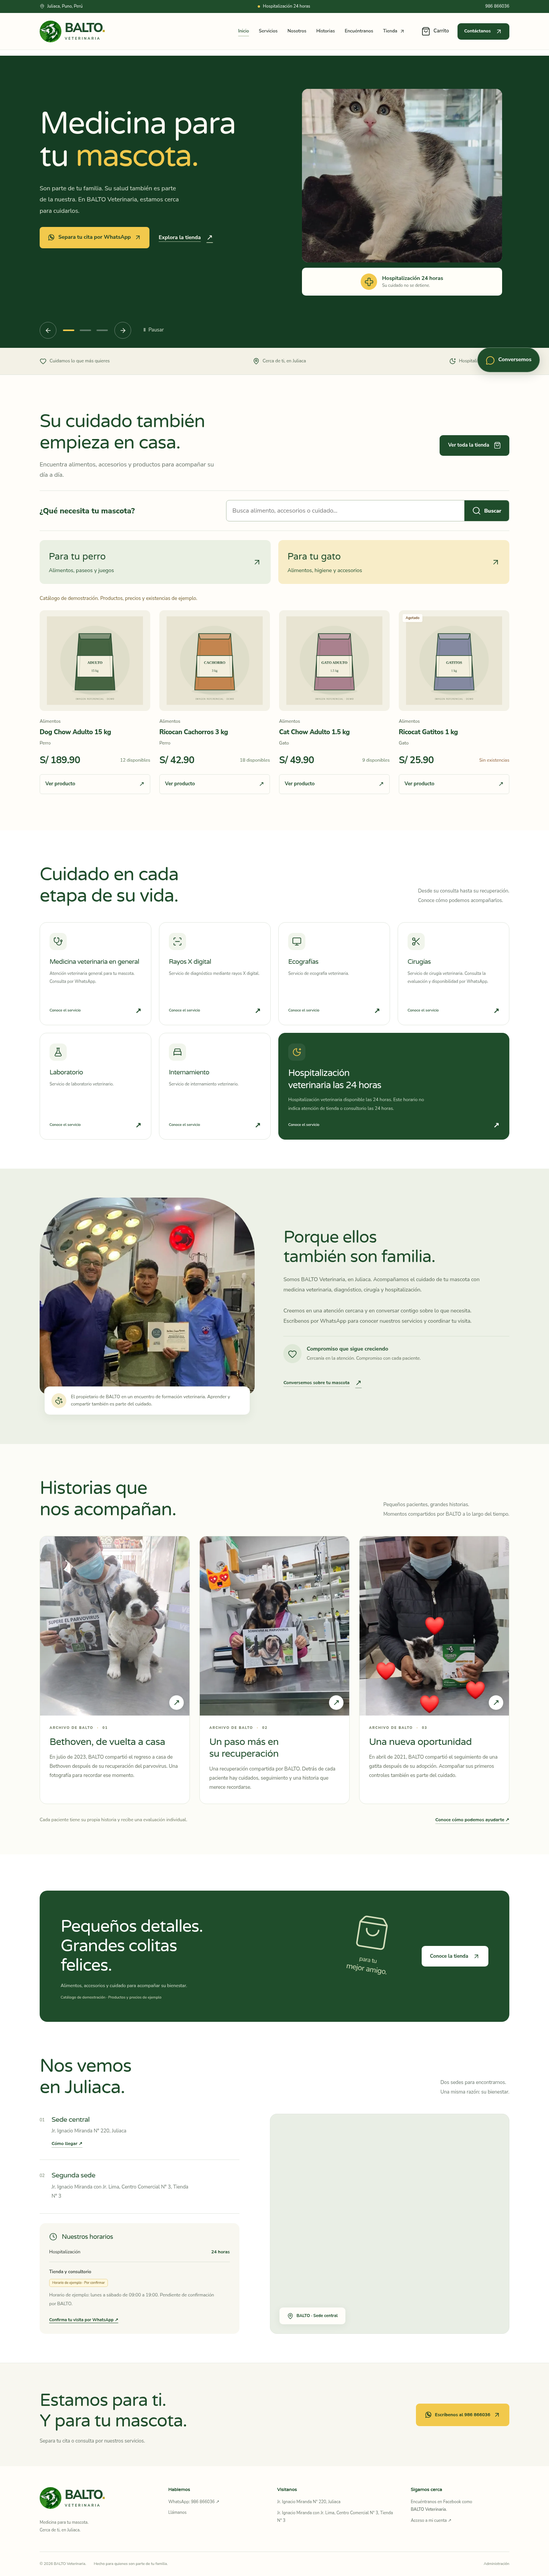
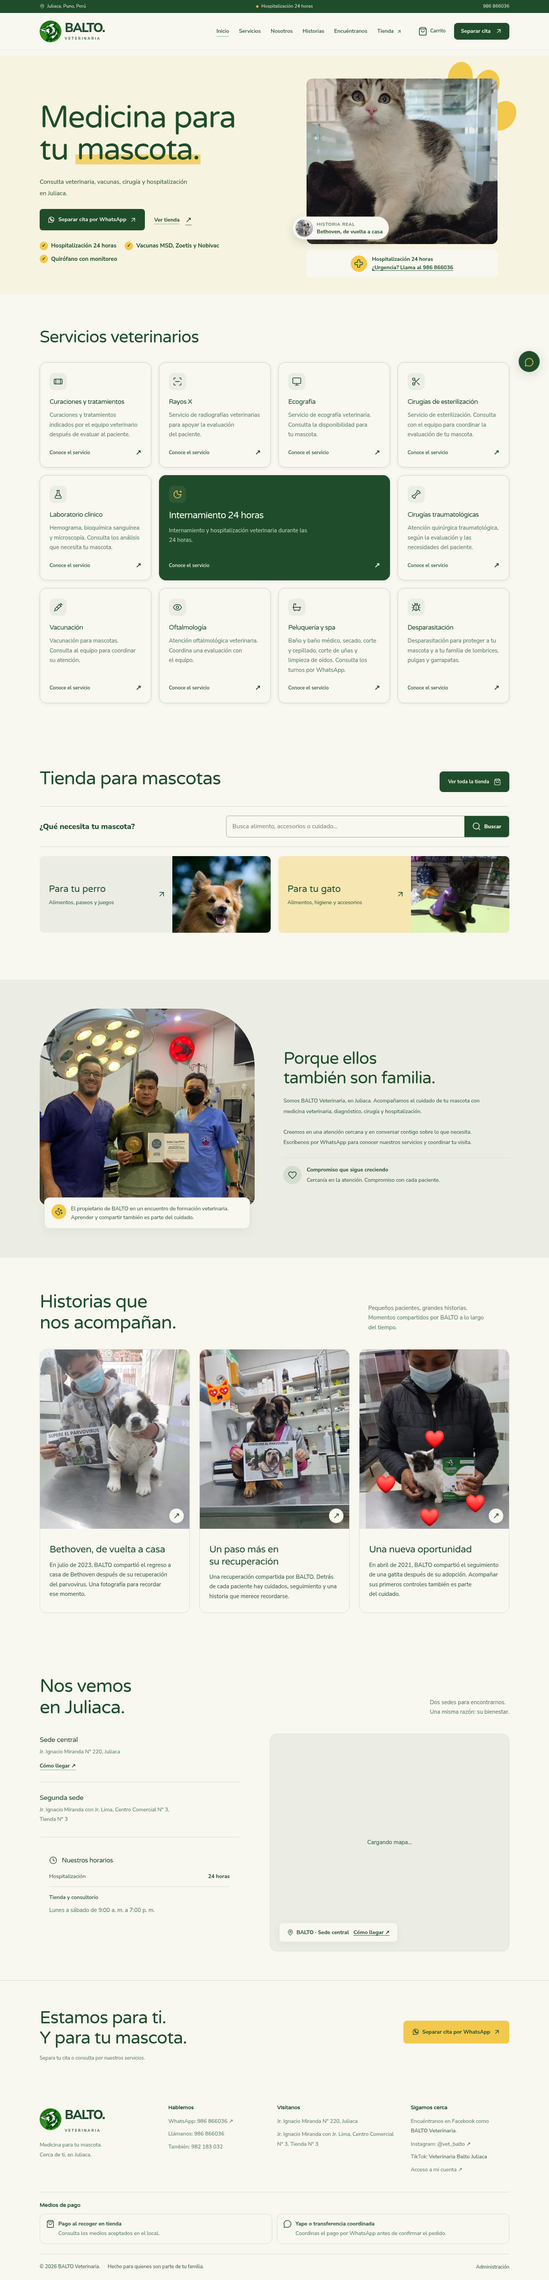
test: actualizar expectativas y evidencias con el diseño nuevo
- Once servicios, incluidos los de las redes de BALTO.
- El chat ya no muestra avisos de "ejemplo" ni "No entendí".
- Capturas y verificaciones regeneradas por las pruebas de navegador.

diff --git a/tests/phase6-chat.py b/tests/phase6-chat.py
@@ -39,7 +39,7 @@ def php(code):
 baseline = json.loads(php('$v=\\Drupal::entityTypeManager()->getStorage("commerce_product_variation")->loadByProperties(["sku"=>"BAL-ALI-001"]);$v=reset($v);echo json_encode(\\Drupal::service("vet_api.catalog")->present($v->getProduct()));'))
 samples = [
     ('hola', 'greeting', ['BALTO', 'productos']),
-    ('¿Cuánto cuesta el Dog Chow Adulto 15 kg?', 'product', [baseline['price'], str(baseline['stock'])+' unidades', 'ejemplo']),
+    ('¿Cuánto cuesta el Dog Chow Adulto 15 kg?', 'product', [baseline['price'], str(baseline['stock'])+' unidades']),
     ('disponibilidad de BAL-ALI-004', 'product', ['agotado']),
     ('precio de producto INEXISTENTEZZZ', 'product', ['No encontré', 'WhatsApp']),
     ('categorías', 'categories', ['Alimentos', 'Accesorios', 'Juguetes']),
@@ -48,7 +48,7 @@ samples = [
     ('horarios', 'schedule', ['24 horas', '9:00', '7:00']),
     ('direcciones', 'schedule', ['220', 'Centro Comercial']),
     ('quiero separar una cita', 'schedule', ['WhatsApp', '986']),
-    ('asdfgh zxcv', 'unknown', ['No entendí', 'WhatsApp']),
+    ('asdfgh zxcv', 'unknown', ['Puedo ayudarte', 'WhatsApp']),
 ]
 for message,intent,fragments in samples:
     status,body,headers = chat(message)

diff --git a/tests/phase5-api.py b/tests/phase5-api.py
@@ -60,7 +60,8 @@ category = products['data'][0]['category_id']
 _, filtered = request('products?category=' + category + '&species=perro')
 check(all(p['category_id'] == category and 'perro' in p['species'] for p in filtered['data']), 'Filtros combinados de categoría y especie')
 _, services = request('services')
-check(len(services['data']) == 9, 'Nueve servicios publicados')
+check(len(services['data']) == 11, 'Once servicios publicados')
+check({'Peluquería y spa', 'Desparasitación'} <= {s['title'] for s in services['data']}, 'Servicios de las redes de BALTO publicados')
 _, schedule = request('schedule')
 check(len(schedule['data']['addresses']) == 2 and '986' in schedule['data']['whatsapp'], 'Direcciones y contacto desde configuración')
 check(schedule['data']['schedule_is_example'] is False and '24' in schedule['data']['hospitalization'], 'Hospitalización continua y horario de consultorio confirmado')
